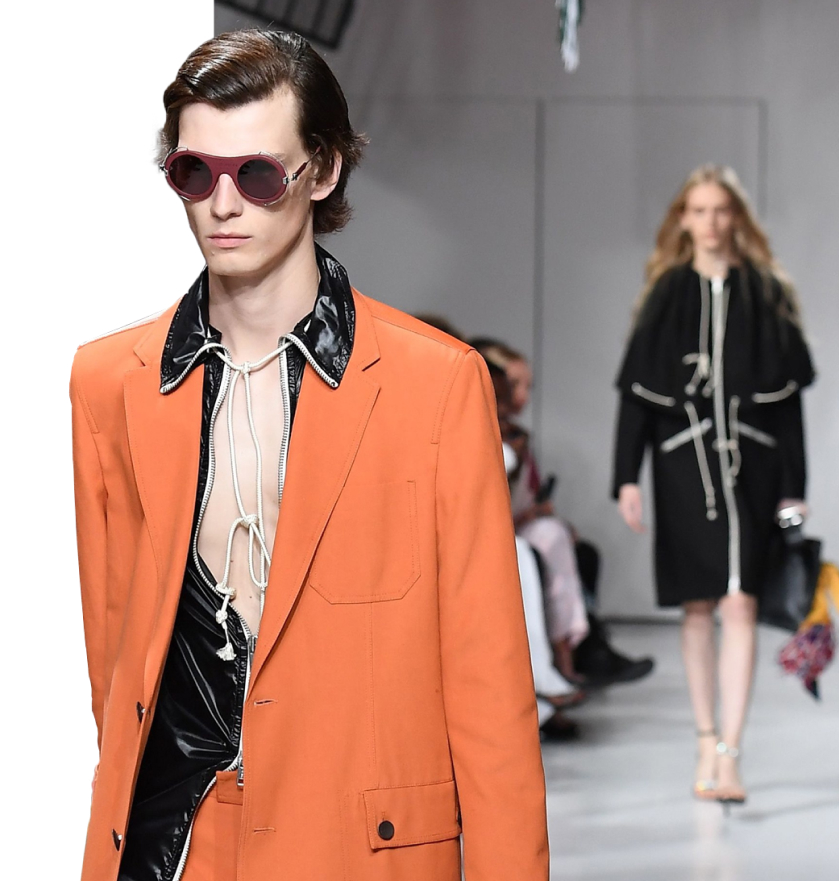
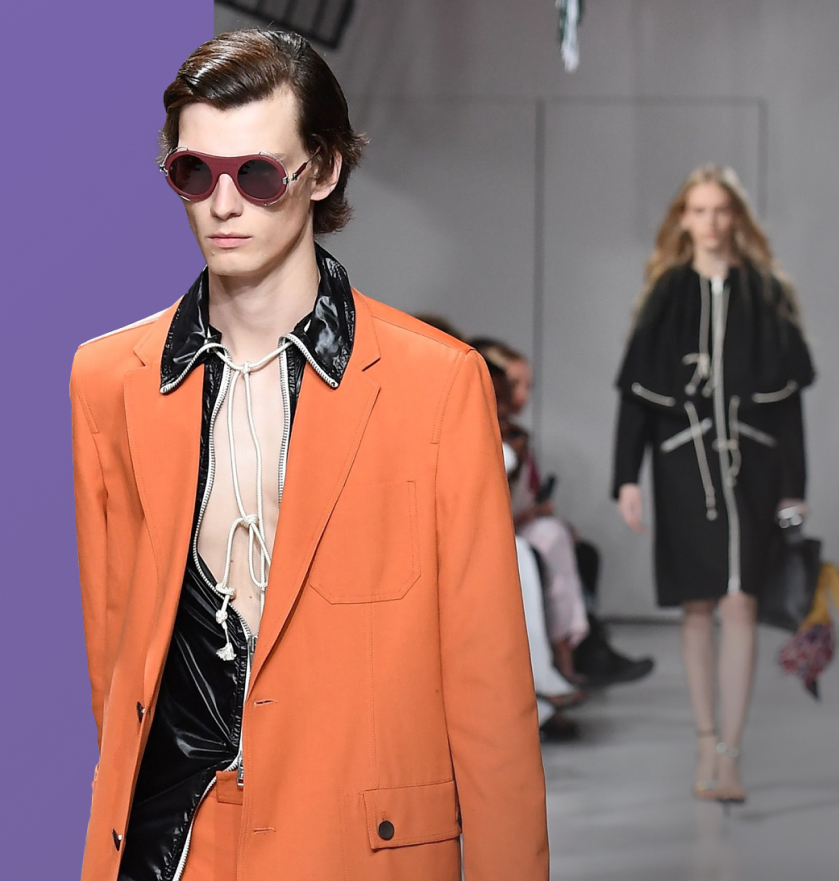
Немного изменили разметку + стилилизовали элементы

diff --git a/index.html b/index.html
@@ -8,7 +8,7 @@
 </head>
 <body>
     <header class="header">
-        <img src="img/logos/blade.svg" alt="" class="header__logo">
+        <img src="img/logos/blade.svg" alt="site logo" class="header__logo">
      
         <nav class="header__nav nav uppercase">
             <a href="" class="nav__link current">Главная</a>
@@ -31,7 +31,7 @@
 
     <div class="wrap">
         <div class="bfw">
-            <img src="img/bfw.svg" alt="">      
+            <img src="img/bfw.svg" alt="background slogan">      
         </div>
 
         <div class="left-side-decor">
@@ -42,9 +42,9 @@
                     <span class="bold">01</span>/05
                 </span>
 
-                <img src="img/icons/Vector__up.svg" alt="" class="data__arrows">
+                <img src="img/icons/Vector__up.svg" alt="decoration arrow" class="data__arrows">
 
-                <img src="img/icons/Vector__down.svg" alt="" class="data__arrows">
+                <img src="img/icons/Vector__down.svg" alt="decoration arrow" class="data__arrows">
             </div>
 
             <hr class="left-side-decor__line  line">
@@ -57,7 +57,7 @@
 
             <div class="main__about about">
                  <div class="about__item">
-                    <img src="img/icons/calendar.svg" alt="" class="about__icon">
+                    <img src="img/icons/calendar.svg" alt="calendar icon" class="about__icon">
                     <p class="about__text">
                         18 ноября<br> 
                         12<span class="small__text">30</span> – 20<span class="small__text">00</span></p> 
@@ -66,7 +66,7 @@
                  <hr class="about__line line">
 
                  <div class="about__item">
-                    <img src="img/icons/location.svg" alt="" class="about__icon">
+                    <img src="img/icons/location.svg" alt="map point" class="about__icon">
                     <p class="about__text">
                         Москва<br>
                         Лофт-центр «Эдем»</p>
@@ -75,31 +75,36 @@
                  <hr class="about__line line">
 
                  <div class="about__item"> 
-                    <img src="img/icons/winner.svg" alt="" class="about__icon">
+                    <img src="img/icons/winner.svg" alt="winner cup" class="about__icon">
                     <p class="about__text">
                         Победитель едет<br>
                         на показ Blade в Париж!</p>
                  </div>
             </div>
 
-            <div class="main__buy-tickets buy-tickets">
-                <p class="buy-tickets__text uppercase">Бронь билета</p>
-                <a href="#" class="buy-tickets__btn"><img src="img/icons/arrow.svg" alt=""></a>
-            </div>
+            <a href="#" class="main__buy-tickets buy-tickets uppercase">
+                <span class="buy-tickets__text">Бронь билета</span>
+
+                <img src="img/icons/arrow.svg" class="buy-tickets__arrow" alt="links arrow">
+            </a>
         </main>
 
         <div class="right-side-decor">
-            <img src="img/рамка.svg" alt="" class="right-side-decor__frame">
-            <div class="right-side-decor__switch">
-                <svg width="12" height="22" viewBox="0 0 12 22" fill="none" xmlns="http://www.w3.org/2000/svg">
-                    <path d="M11 1L1 11L11 21" stroke="white" stroke-width="0.909091"/>
-                </svg>
+            <img src="img/рамка.svg" alt="decoration frame" class="right-side-decor__frame">
+            <div class="right-side-decor__photo-switch photo-switch">
+                <button class="photo-switch__item">
+                    <svg width="12" height="22" viewBox="0 0 12 22" fill="none" xmlns="http://www.w3.org/2000/svg">
+                        <path d="M11 1L1 11L11 21" stroke="currentColor" stroke-width="0.909091"/>
+                    </svg>
+                </button>
                     
-                <svg width="12" height="22" viewBox="0 0 12 22" fill="none" xmlns="http://www.w3.org/2000/svg">
-                    <path d="M1 21L11 11L1 0.999999" stroke="white" stroke-width="0.909091"/>
-                </svg>
+                <button class="photo-switch__item">
+                    <svg width="12" height="22" viewBox="0 0 12 22" fill="none " xmlns="http://www.w3.org/2000/svg">
+                        <path d="M1 21L11 11L1 0.999999" stroke="currentColor" stroke-width="0.909091"/>
+                    </svg>
+                </button>
             </div>
-            <img src="img/img2.jpg" alt="" class="right-side-decor__photo">
+            <img src="img/img.jpg" alt="model photo" class="right-side-decor__photo">
         </div>
 
         <footer class="footer">

diff --git a/css/style.css b/css/style.css
@@ -1,0 +1,191 @@
+@import url('https://fonts.googleapis.com/css2?family=Lato:ital,wght@0,100;0,300;0,400;0,700;0,900;1,100;1,300;1,400;1,700;1,900&display=swap');
+@import url('https://fonts.googleapis.com/css2?family=Playfair+Display:ital,wght@0,400..900;1,400..900&display=swap');
+
+:root {
+    --font-family: "Lato", sans-serif;
+    --second-family: "Playfair Display", sans-serif;
+
+    --main-color: #ffffff;
+    --second-color: #000000;
+    --third-color: #f2c03f;
+
+    --main-gradient: linear-gradient(152deg, rgba(101, 78, 163, 0.87) 24.86%, rgba(95, 75, 139, 0.87) 100%);
+}
+
+* {
+    margin: 0;
+    padding: 0;
+    box-sizing: border-box;
+}
+
+body {
+    font-family: var(--font-family);
+    background: var(--main-gradient);
+    font-size: 1.125rem;
+    color: var(--main-color);
+}
+
+a {
+    color: var(--main-color);
+    text-decoration: none;
+}
+
+.header {
+    
+}
+.header__logo {
+    background-color: var(--main-color);
+    width: 14.44%;
+    height: 100%;
+}
+.header__nav {
+}
+.nav {
+    margin-left: 50px;
+    font-weight: 700;
+}
+.uppercase {
+    text-transform: uppercase;
+}
+.nav__link {
+    
+}
+.current {
+    position: relative;
+}
+.current::after {
+    content: '';
+
+    height: 16px;
+    width: 120px;
+
+    position: absolute;
+    z-index: -1;
+
+    top: 0.556em;
+    left: -0.82em;
+
+    background-color: var(--third-color);
+    opacity: 0.75;
+}
+.header__lang-switch {
+}
+.lang-switch {
+}
+.lang-switch__text {
+}
+.lang-switch__arrow {
+}
+.wrap {
+}
+.bfw {
+}
+.left-side-decor {
+}
+.left-side-decor__line {
+}
+.line {
+}
+.left-side-decor__data {
+}
+.data {
+}
+.data__value {
+}
+.bold {
+}
+.data__arrows {
+}
+.main {
+}
+.main__tag {
+    color: var(--third-color);
+}
+.main__title {
+}
+
+.title {
+    font-family: var(--second-family);
+    font-size: 4em;
+}
+
+.main__about {
+}
+.about {
+}
+.about__item {
+}
+.about__icon {
+}
+.about__text {
+    opacity: 0.74;
+}
+.small__text {
+    font-size: 0.5em;
+    vertical-align: super;
+}
+.about__line {
+}
+.main__buy-tickets {
+    
+}
+.buy-tickets {
+    
+}
+.buy-tickets__text {
+    background-color: var(--main-color);
+    color: var(--second-color);
+}
+.buy-tickets__arrow {
+    background-color: var(--third-color);
+}
+.right-side-decor {
+}
+.right-side-decor__frame {
+}
+.right-side-decor__switch {
+
+}
+
+.photo-switch__item {
+    border: none;
+    color: transparent;
+    background-color: transparent;
+}
+
+.photo-switch__item svg {
+    max-width: 100%;
+    height: auto;
+    color: var(--main-color);
+    transition: 380ms;
+}
+
+.photo-switch__item svg:hover {
+    transform: scale(1.2);
+    color: var(--third-color);
+    cursor: pointer;
+}
+
+.right-side-decor__photo {
+}
+.footer {
+}
+.footer__social-links {
+}
+.social-links {
+    
+}
+.social-links__item {
+    
+}
+.social-links__item svg {
+    max-width: 100%;
+    height: auto;
+    opacity: 0.32;
+    transition: 380ms;
+}
+.social-links__item svg:hover {
+    opacity: 1;
+    color: var(--third-color);
+    transform: scale(1.2);
+}
